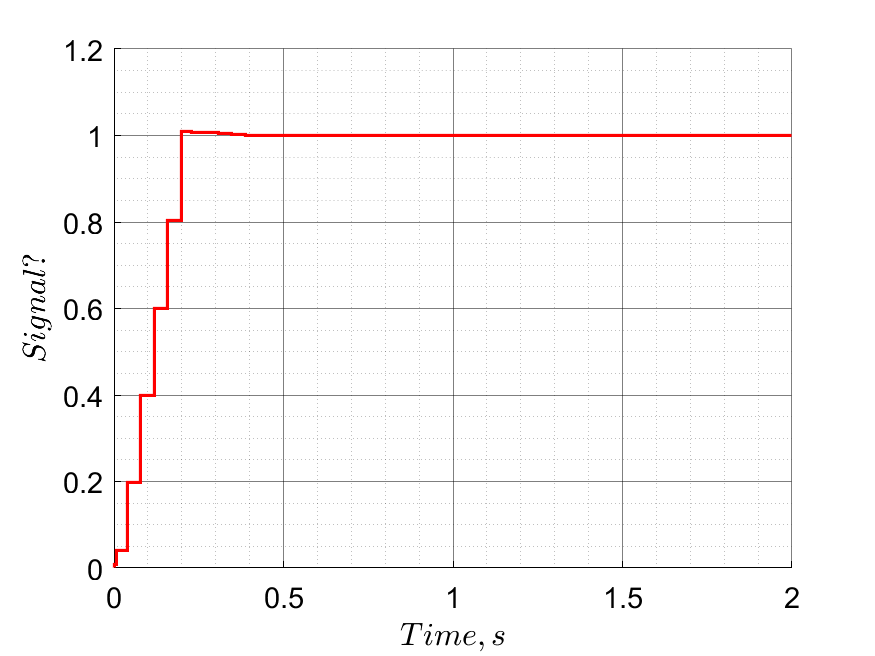
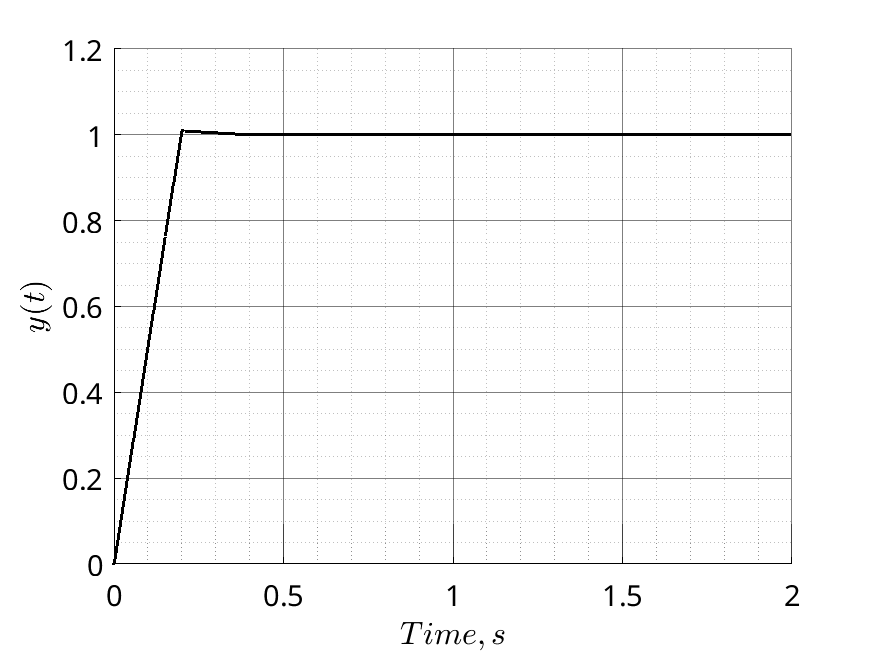
change `.gitignore`, fix variable step

diff --git a/Lab1/task1.m b/Lab1/task1.m
@@ -14,7 +14,7 @@ path = "out/";
 %% Sim and save img
 for k = K_oc_arr
     [time, y] = start_sim(k, 2);
-    plot_xy_discrete_lable(time, y,"$Time, s$","$Signal?$")
+    plot_xy_continuous_lable(time, y,"$Time, s$","$y(t)$")
     saveas(gcf, path+'task'+string(task_number)+'_'+string(set_number)+'_'+'koc'+string(k)+'.png')
     set_number = set_number + 1;
     close all;
@@ -26,5 +26,5 @@ print('-smodel', '-dpdf', 'out/model')
 
 %%
 [time, y] = start_sim(0.535, 2);
-stairs(time, y)
+plot(time, y)
 100*(max(y) - y(50))
